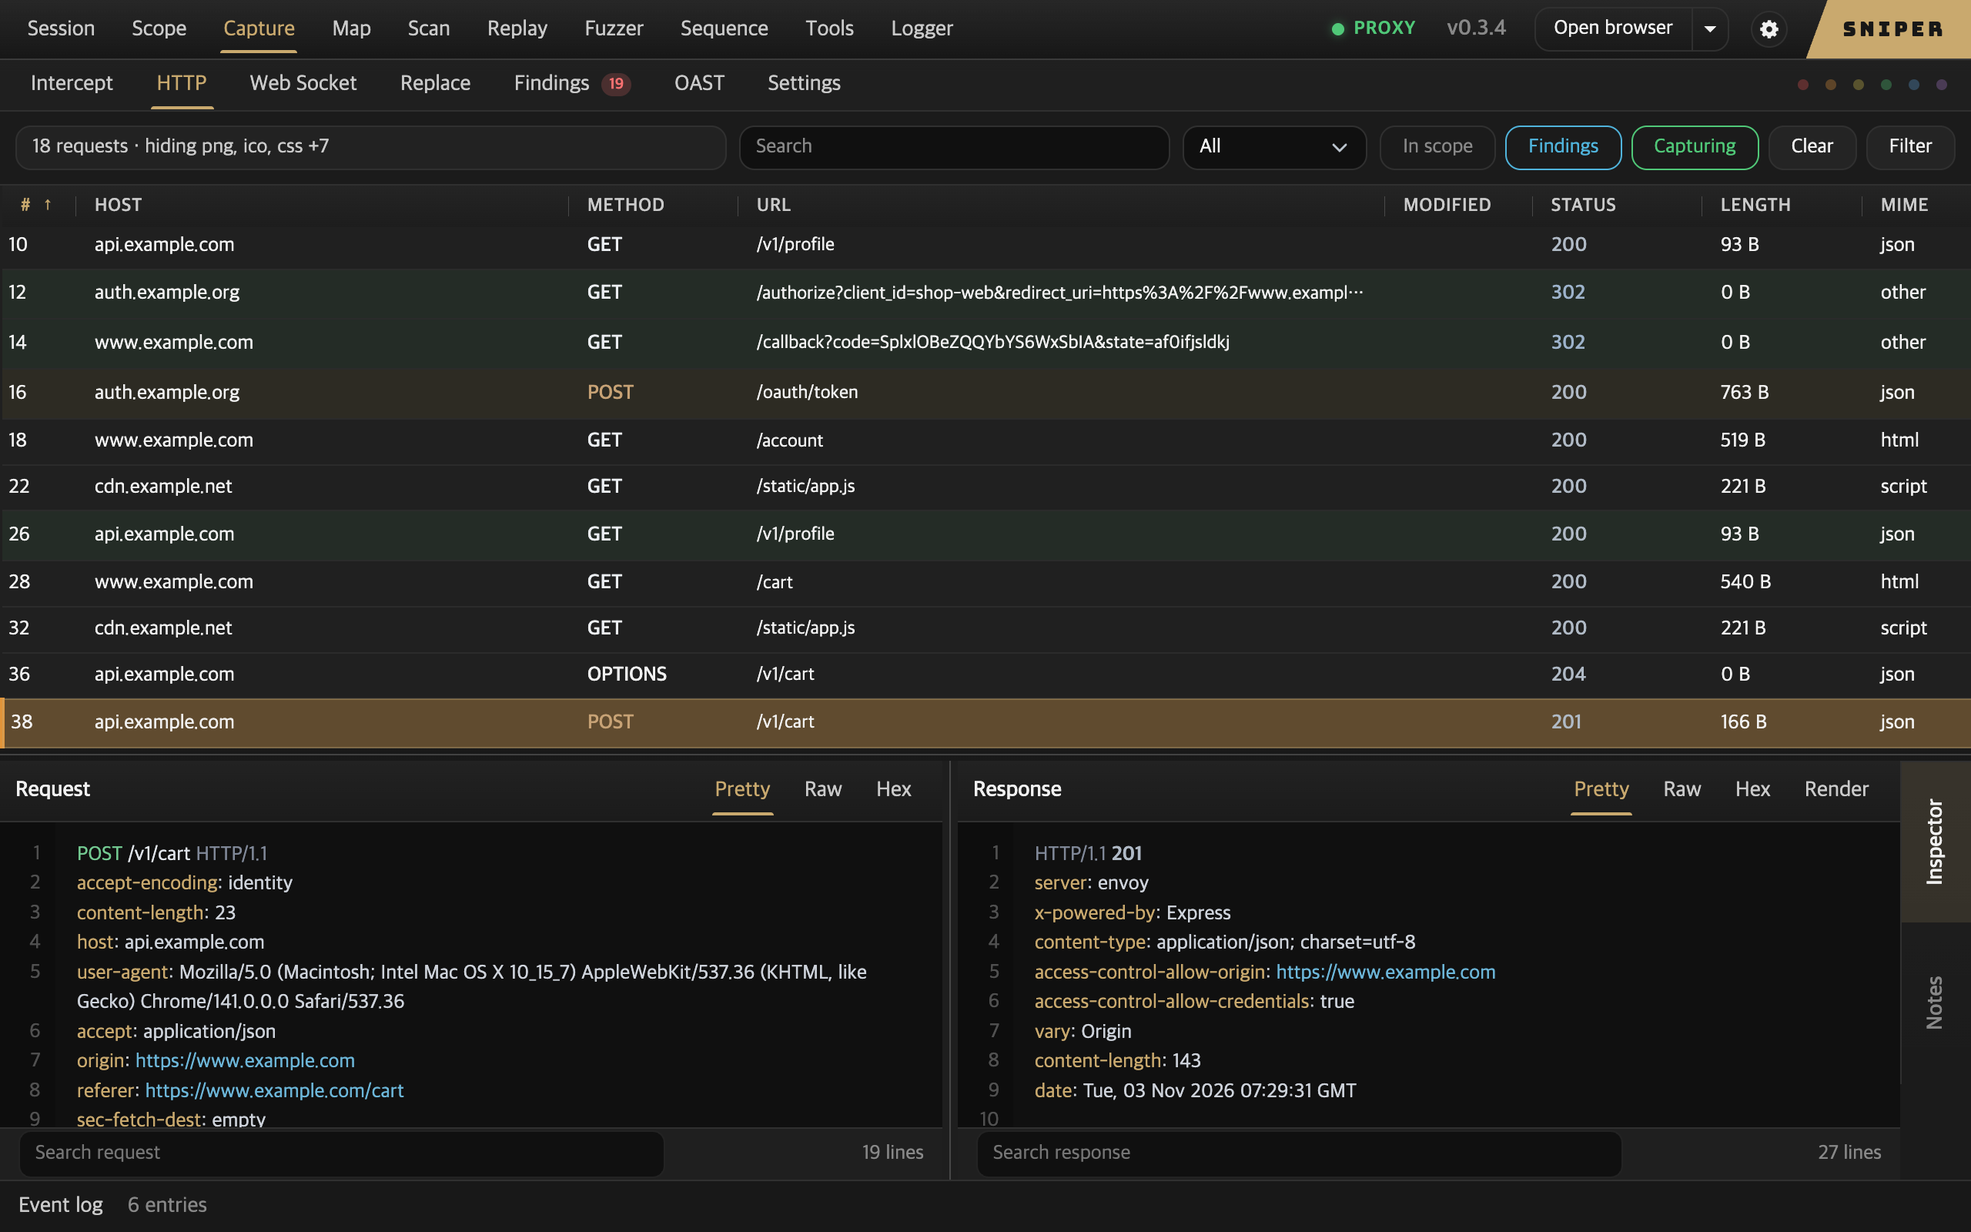
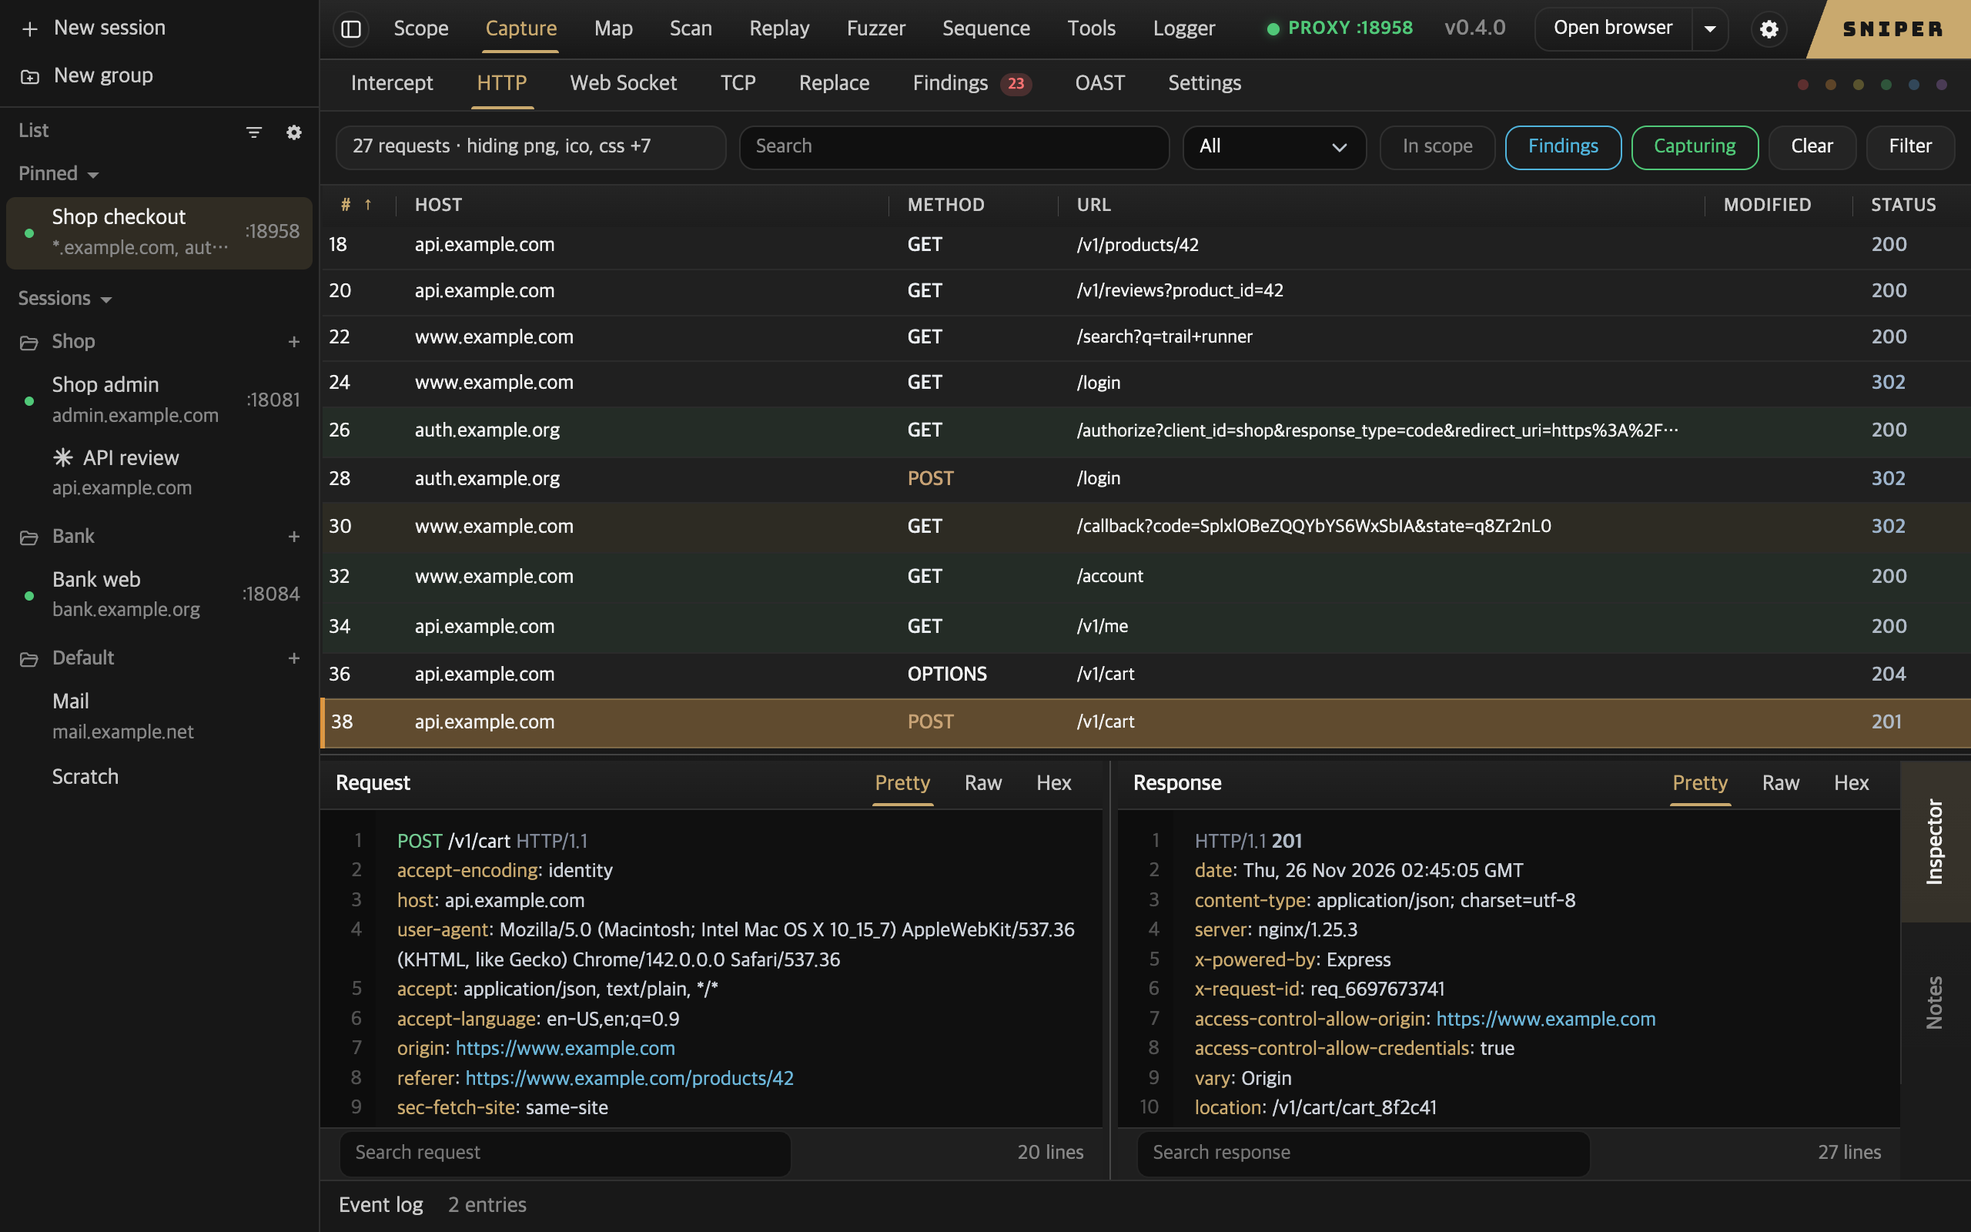
Retake the screenshots for 0.4.0
The README's and the site's screenshots were of v0.3.4: a top strip with a
Session tab, and no session list. They are taken again from 0.4.0, at the
same size and with the same made-up shop on example.com, example.net and
example.org hosts. The session page takes the place of the Session screen,
and the session list is on every screen but Intercept, where it is put
away so that the queue shows whole at this width.

The README also says what a row of the list can show. NOTICE.txt says how
the images were made. The v0.3.4 images stay for direct links.

diff --git a/docs/index.html b/docs/index.html
@@ -43,28 +43,28 @@
       <p><span>01</span> A native desktop app</p><p><span>02</span> Sessions saved locally</p><p><span>03</span> A scriptable CLI</p>
     </div>
     <figure class="product-preview wrap">
-      <a class="preview-image" href="assets/sniper-v0.3.4-http.jpg" aria-label="View the full Sniper v0.3.4 HTTP history screenshot">
-        <img src="assets/sniper-v0.3.4-http.jpg" alt="Sniper v0.3.4 with synthetic example.com traffic: Capture and HTTP selected, a tagged POST /v1/cart request, and the request and response inspectors below." width="1152" height="720" loading="lazy">
+      <a class="preview-image" href="assets/sniper-v0.4.0-http.jpg" aria-label="View the full Sniper v0.4.0 HTTP history screenshot">
+        <img src="assets/sniper-v0.4.0-http.jpg" alt="Sniper v0.4.0 with synthetic example.com traffic: the session list with a pinned session and two groups, Capture and HTTP selected, a tagged POST /v1/cart request, and the request and response inspectors below." width="1152" height="720" loading="lazy">
       </a>
-      <figcaption><span>THE WORKSPACE</span><span>v0.3.4 · synthetic example.com traffic · <a href="assets/sniper-v0.3.4-http.jpg">View full image ↗</a></span></figcaption>
+      <figcaption><span>THE WORKSPACE</span><span>v0.4.0 · synthetic example.com traffic · <a href="assets/sniper-v0.4.0-http.jpg">View full image ↗</a></span></figcaption>
     </figure>
     <figure class="product-preview wrap">
-      <a class="preview-image" href="assets/sniper-v0.3.4-map.jpg" aria-label="View the full Sniper v0.3.4 Service Map screenshot">
-        <img src="assets/sniper-v0.3.4-map.jpg" alt="The Map tool on the same traffic: the browser and curl clients, the shop's page, API, sign-in, admin and CDN origins with the servers, frameworks and sign-in each one shows, and www.example.com's endpoints in the inspector." width="1152" height="720" loading="lazy">
+      <a class="preview-image" href="assets/sniper-v0.4.0-map.jpg" aria-label="View the full Sniper v0.4.0 Service Map screenshot">
+        <img src="assets/sniper-v0.4.0-map.jpg" alt="The Map tool on the same traffic: the browser and curl clients, the shop's page, API, sign-in and CDN origins with the servers, frameworks and sign-in each one shows, and www.example.com's endpoints in the inspector." width="1152" height="720" loading="lazy">
       </a>
-      <figcaption><span>THE MAP</span><span>v0.3.4 · the same traffic as a Service Map · <a href="assets/sniper-v0.3.4-map.jpg">View full image ↗</a></span></figcaption>
+      <figcaption><span>THE MAP</span><span>v0.4.0 · the same traffic as a Service Map · <a href="assets/sniper-v0.4.0-map.jpg">View full image ↗</a></span></figcaption>
     </figure>
     <section class="tour wrap section-space" id="tour" aria-labelledby="tour-title">
-      <div class="section-intro"><p class="eyebrow">Screenshots</p><h2 id="tour-title">Each tool</h2><p>Captured from Sniper v0.3.4 with synthetic example.com traffic.</p></div>
+      <div class="section-intro"><p class="eyebrow">Screenshots</p><h2 id="tour-title">Each tool</h2><p>Captured from Sniper v0.4.0 with synthetic example.com traffic.</p></div>
       <div class="tour-grid">
-        <figure><a class="preview-image" href="assets/sniper-v0.3.4-session.jpg"><img src="assets/sniper-v0.3.4-session.jpg" alt="The Session screen: three sessions with their size, requests and findings, and the selected session's scope, busiest hosts, pinned Replay tab, Replace rules, manual scan and findings." width="1152" height="720" loading="lazy"></a><figcaption><strong>Session</strong>What every session holds before you open it: size, requests, findings, scope, pins, rules and scans.</figcaption></figure>
-        <figure><a class="preview-image" href="assets/sniper-v0.3.4-replay.jpg"><img src="assets/sniper-v0.3.4-replay.jpg" alt="Replay with a pinned tab named Cart total check: a POST /v1/cart request on the left and its 201 JSON response on the right." width="1152" height="720" loading="lazy"></a><figcaption><strong>Replay</strong>Edit a captured request, send it again and read the answer beside it.</figcaption></figure>
-        <figure><a class="preview-image" href="assets/sniper-v0.3.4-scan.jpg"><img src="assets/sniper-v0.3.4-scan.jpg" alt="Scan, Active Scan: 14,103 Nuclei templates imported, a finished manual scan of admin.example.com with two matches, and the matched /env request and response." width="1152" height="720" loading="lazy"></a><figcaption><strong>Scan ▸ Active Scan</strong>Run Nuclei templates against targets you name; a match opens with the exchange that proved it.</figcaption></figure>
-        <figure><a class="preview-image" href="assets/sniper-v0.3.4-intercept.jpg"><img src="assets/sniper-v0.3.4-intercept.jpg" alt="Intercept holding a POST /v1/cart request in the request queue, with its headers and JSON body open for editing and Drop and Forward buttons." width="1152" height="720" loading="lazy"></a><figcaption><strong>Intercept</strong>Hold a request on its way out, edit it, then forward or drop it.</figcaption></figure>
-        <figure><a class="preview-image" href="assets/sniper-v0.3.4-fuzzer.jpg"><img src="assets/sniper-v0.3.4-fuzzer.jpg" alt="The Fuzzer with a marked page parameter and its results sorted by status: quote payloads answered 500, others 400." width="1152" height="720" loading="lazy"></a><figcaption><strong>Fuzzer</strong>Send payload lists at marked positions and compare status, length and timing.</figcaption></figure>
-        <figure><a class="preview-image" href="assets/sniper-v0.3.4-findings.jpg"><img src="assets/sniper-v0.3.4-findings.jpg" alt="Findings from passive checks and template matches, with a Spring Boot health endpoint selected and the matched words highlighted in its response." width="1152" height="720" loading="lazy"></a><figcaption><strong>Findings</strong>Passive checks and template matches, each with its evidence highlighted.</figcaption></figure>
-        <figure><a class="preview-image" href="assets/sniper-v0.3.4-flow.jpg"><img src="assets/sniper-v0.3.4-flow.jpg" alt="Map, Flow: the client, www.example.com, api.example.com and auth.example.org as lanes, with each page load's requests and redirects drawn in time order." width="1152" height="720" loading="lazy"></a><figcaption><strong>Map ▸ Flow</strong>One origin's requests in time order, page load by page load.</figcaption></figure>
-        <figure><a class="preview-image" href="assets/sniper-v0.3.4-tools.jpg"><img src="assets/sniper-v0.3.4-tools.jpg" alt="Tools with a JWT pasted in: the JWT tool opened by itself, with the decoded header and claims and alg none variants." width="1152" height="720" loading="lazy"></a><figcaption><strong>Tools</strong>A pasted JWT opens the JWT tool: header and claims decoded, <code>alg: none</code> variants ready.</figcaption></figure>
+        <figure><a class="preview-image" href="assets/sniper-v0.4.0-session.jpg"><img src="assets/sniper-v0.4.0-session.jpg" alt="The session page beside the session list: the open session's requests, findings, last capture and size, its scope, busiest hosts, pinned Replay tab, Replace rule, manual scan and findings by severity. The list has a pinned session, two groups and Default, and shows which sessions receive on which port." width="1152" height="720" loading="lazy"></a><figcaption><strong>Session</strong>What every session holds before you open it: size, requests, findings, scope, pins, rules and scans.</figcaption></figure>
+        <figure><a class="preview-image" href="assets/sniper-v0.4.0-replay.jpg"><img src="assets/sniper-v0.4.0-replay.jpg" alt="Replay with a pinned tab named Cart total check: a POST /v1/cart request on the left and its 201 JSON response on the right." width="1152" height="720" loading="lazy"></a><figcaption><strong>Replay</strong>Edit a captured request, send it again and read the answer beside it.</figcaption></figure>
+        <figure><a class="preview-image" href="assets/sniper-v0.4.0-scan.jpg"><img src="assets/sniper-v0.4.0-scan.jpg" alt="Scan, Active Scan: 14,224 Nuclei templates in the library, a finished manual scan of admin.example.com with three matches, and the matched /actuator/health request and response." width="1152" height="720" loading="lazy"></a><figcaption><strong>Scan ▸ Active Scan</strong>Run Nuclei templates against targets you name; a match opens with the exchange that proved it.</figcaption></figure>
+        <figure><a class="preview-image" href="assets/sniper-v0.4.0-intercept.jpg"><img src="assets/sniper-v0.4.0-intercept.jpg" alt="Intercept, with the session list put away, holding a POST /v1/cart request in the request queue, with its headers and JSON body open for editing and Drop and Forward buttons." width="1152" height="720" loading="lazy"></a><figcaption><strong>Intercept</strong>Hold a request on its way out, edit it, then forward or drop it.</figcaption></figure>
+        <figure><a class="preview-image" href="assets/sniper-v0.4.0-fuzzer.jpg"><img src="assets/sniper-v0.4.0-fuzzer.jpg" alt="The Fuzzer with a marked page parameter and its results sorted by status: quote payloads answered 500, others 400." width="1152" height="720" loading="lazy"></a><figcaption><strong>Fuzzer</strong>Send payload lists at marked positions and compare status, length and timing.</figcaption></figure>
+        <figure><a class="preview-image" href="assets/sniper-v0.4.0-findings.jpg"><img src="assets/sniper-v0.4.0-findings.jpg" alt="Findings from passive checks and template matches, with a Spring Boot health endpoint selected and the matched words highlighted in its response." width="1152" height="720" loading="lazy"></a><figcaption><strong>Findings</strong>Passive checks and template matches, each with its evidence highlighted.</figcaption></figure>
+        <figure><a class="preview-image" href="assets/sniper-v0.4.0-flow.jpg"><img src="assets/sniper-v0.4.0-flow.jpg" alt="Map, Flow: the client, www.example.com, api.example.com and auth.example.org as lanes, with each page load's requests and redirects drawn in time order." width="1152" height="720" loading="lazy"></a><figcaption><strong>Map ▸ Flow</strong>One origin's requests in time order, page load by page load.</figcaption></figure>
+        <figure><a class="preview-image" href="assets/sniper-v0.4.0-tools.jpg"><img src="assets/sniper-v0.4.0-tools.jpg" alt="Tools with a JWT pasted in: the JWT tool opened by itself, with the decoded header and claims and alg none variants." width="1152" height="720" loading="lazy"></a><figcaption><strong>Tools</strong>A pasted JWT opens the JWT tool: header and claims decoded, <code>alg: none</code> variants ready.</figcaption></figure>
       </div>
     </section>
     <section class="workflow wrap section-space" id="workflow" aria-labelledby="workflow-title">

diff --git a/README.md b/README.md
@@ -17,7 +17,7 @@
 </p>
 
 <p align="center">
-  <img src="web/screenshot.png" width="800" alt="Sniper's HTTP history with synthetic example.com traffic: a tagged POST /v1/cart request and its request and response" />
+  <img src="web/screenshot.png" width="800" alt="Sniper's HTTP history with synthetic example.com traffic: the session list with a pinned session and two groups, a tagged POST /v1/cart request, and its request and response" />
 </p>
 
 <p align="center">
@@ -124,7 +124,7 @@ Defaults: the proxy on `127.0.0.1:8080`, the headless server's UI on `127.0.0.1:
 | **Replay** | Edit and resend any captured request, override host and port, render the response. **Fields** reads Protobuf (without a schema), MessagePack, CBOR and gRPC bodies and edits Protobuf, MessagePack and CBOR request fields. A body that is not text, such as a file upload, is edited one character per byte, as in Burp's Raw view, and bytes left alone are sent unchanged. **Import cURL** reads `-F` forms |
 | **Fuzzer** | Payload lists sent at marked positions (Sniper or Battering ram), also inside a binary body such as a file upload, in the background with progress, Stop, a delay between requests and a stop on matching responses |
 | **Tools** | Decode, encode, hash, JWT inspector, data transformations |
-| **Sessions** | Separate workspaces, each with its own records, scope and state, listed beside every tool: one click shows a session, and its row shows where it receives from, held requests and running or finished jobs. A session can capture through a proxy port of its own while the others capture too, with its own browser and TCP listeners. The list groups, pins and sorts sessions |
+| **Sessions** | Separate workspaces, each with its own records, scope and state, listed beside every tool: one click shows a session, and its row shows where it receives from, held requests and running or finished jobs. A session can capture through a proxy port of its own while the others capture too, with its own browser and TCP listeners. The list groups, pins and sorts sessions, and you choose what a row shows under the name: domains, last capture, created, requests |
 | **Scope** | Host and wildcard filters beside the captured hosts and paths |
 | **Map** | A passive Service Map of captured origins, how they relate, and the APIs they serve |
 | **Themes** | 12 themes: 7 dark, 5 light |
@@ -133,14 +133,14 @@ Defaults: the proxy on `127.0.0.1:8080`, the headless server's UI on `127.0.0.1:
 
 ## Screenshots
 
-All captured from Sniper v0.3.4 with synthetic example.com traffic.
+All captured from Sniper v0.4.0 with synthetic example.com traffic.
 
 ### Session
 
-Each session's size, requests, findings, scope, pins, rules and scans, before you open it. The gear beside the session list opens this screen.
+A session's size, requests, findings, scope, pins, rules and scans on one page, with a table of every session on the tab beside it. The gear above the session list opens this screen.
 
 <p align="center">
-  <img src="docs/assets/sniper-v0.3.4-session.jpg" width="800" alt="The Session screen: three sessions with their size, requests and findings, and the selected session's scope, busiest hosts, pinned Replay tab, Replace rules, manual scan and findings" />
+  <img src="docs/assets/sniper-v0.4.0-session.jpg" width="800" alt="The session page beside the session list: the open session's requests, findings, last capture and size, its scope, busiest hosts, pinned Replay tab, Replace rule, manual scan and findings by severity. The list has a pinned session, two groups and Default, and shows which sessions receive on which port" />
 </p>
 
 ### Replay
@@ -148,7 +148,7 @@ Each session's size, requests, findings, scope, pins, rules and scans, before yo
 Edit a captured request, send it again and read the answer beside it.
 
 <p align="center">
-  <img src="docs/assets/sniper-v0.3.4-replay.jpg" width="800" alt="Replay with a pinned tab named Cart total check: a POST /v1/cart request on the left and its 201 JSON response on the right" />
+  <img src="docs/assets/sniper-v0.4.0-replay.jpg" width="800" alt="Replay with a pinned tab named Cart total check: a POST /v1/cart request on the left and its 201 JSON response on the right" />
 </p>
 
 ### Scan ▸ Active Scan
@@ -156,7 +156,7 @@ Edit a captured request, send it again and read the answer beside it.
 Run Nuclei templates against targets you name; a match opens with the exchange that proved it.
 
 <p align="center">
-  <img src="docs/assets/sniper-v0.3.4-scan.jpg" width="800" alt="Scan, Active Scan: 14,103 Nuclei templates imported, a finished manual scan of admin.example.com with two matches, and the matched /env request and response" />
+  <img src="docs/assets/sniper-v0.4.0-scan.jpg" width="800" alt="Scan, Active Scan: 14,224 Nuclei templates in the library, a finished manual scan of admin.example.com with three matches, and the matched /actuator/health request and response" />
 </p>
 
 ### Intercept
@@ -164,7 +164,7 @@ Run Nuclei templates against targets you name; a match opens with the exchange t
 Hold a request on its way out, edit it, then forward or drop it.
 
 <p align="center">
-  <img src="docs/assets/sniper-v0.3.4-intercept.jpg" width="800" alt="Intercept holding a POST /v1/cart request in the request queue, with its headers and JSON body open for editing and Drop and Forward buttons" />
+  <img src="docs/assets/sniper-v0.4.0-intercept.jpg" width="800" alt="Intercept, with the session list put away, holding a POST /v1/cart request in the request queue, with its headers and JSON body open for editing and Drop and Forward buttons" />
 </p>
 
 ### Fuzzer
@@ -174,7 +174,7 @@ The [Fuzzer quick start (한국어)](docs/guides/fuzzer-assisted-workflow.ko.md)
 shows what to paste, how to mark a value and how to preview before sending.
 
 <p align="center">
-  <img src="docs/assets/sniper-v0.3.4-fuzzer.jpg" width="800" alt="The Fuzzer with a marked page parameter and its results sorted by status: quote payloads answered 500, others 400" />
+  <img src="docs/assets/sniper-v0.4.0-fuzzer.jpg" width="800" alt="The Fuzzer with a marked page parameter and its results sorted by status: quote payloads answered 500, others 400" />
 </p>
 
 ### Findings
@@ -182,7 +182,7 @@ shows what to paste, how to mark a value and how to preview before sending.
 Passive checks and template matches, each with its evidence highlighted.
 
 <p align="center">
-  <img src="docs/assets/sniper-v0.3.4-findings.jpg" width="800" alt="Findings from passive checks and template matches, with a Spring Boot health endpoint selected and the matched words highlighted in its response" />
+  <img src="docs/assets/sniper-v0.4.0-findings.jpg" width="800" alt="Findings from passive checks and template matches, with a Spring Boot health endpoint selected and the matched words highlighted in its response" />
 </p>
 
 ### Map ▸ Flow
@@ -190,7 +190,7 @@ Passive checks and template matches, each with its evidence highlighted.
 One origin's requests in time order, page load by page load.
 
 <p align="center">
-  <img src="docs/assets/sniper-v0.3.4-flow.jpg" width="800" alt="Map, Flow: the client, www.example.com, api.example.com and auth.example.org as lanes, with each page load's requests and redirects drawn in time order" />
+  <img src="docs/assets/sniper-v0.4.0-flow.jpg" width="800" alt="Map, Flow: the client, www.example.com, api.example.com and auth.example.org as lanes, with each page load's requests and redirects drawn in time order" />
 </p>
 
 ### Tools
@@ -198,7 +198,7 @@ One origin's requests in time order, page load by page load.
 A pasted JWT opens the JWT tool: header and claims decoded, <code>alg: none</code> variants ready.
 
 <p align="center">
-  <img src="docs/assets/sniper-v0.3.4-tools.jpg" width="800" alt="Tools with a JWT pasted in: the JWT tool opened by itself, with the decoded header and claims and alg none variants" />
+  <img src="docs/assets/sniper-v0.4.0-tools.jpg" width="800" alt="Tools with a JWT pasted in: the JWT tool opened by itself, with the decoded header and claims and alg none variants" />
 </p>
 
 ## CLI and AI agents
